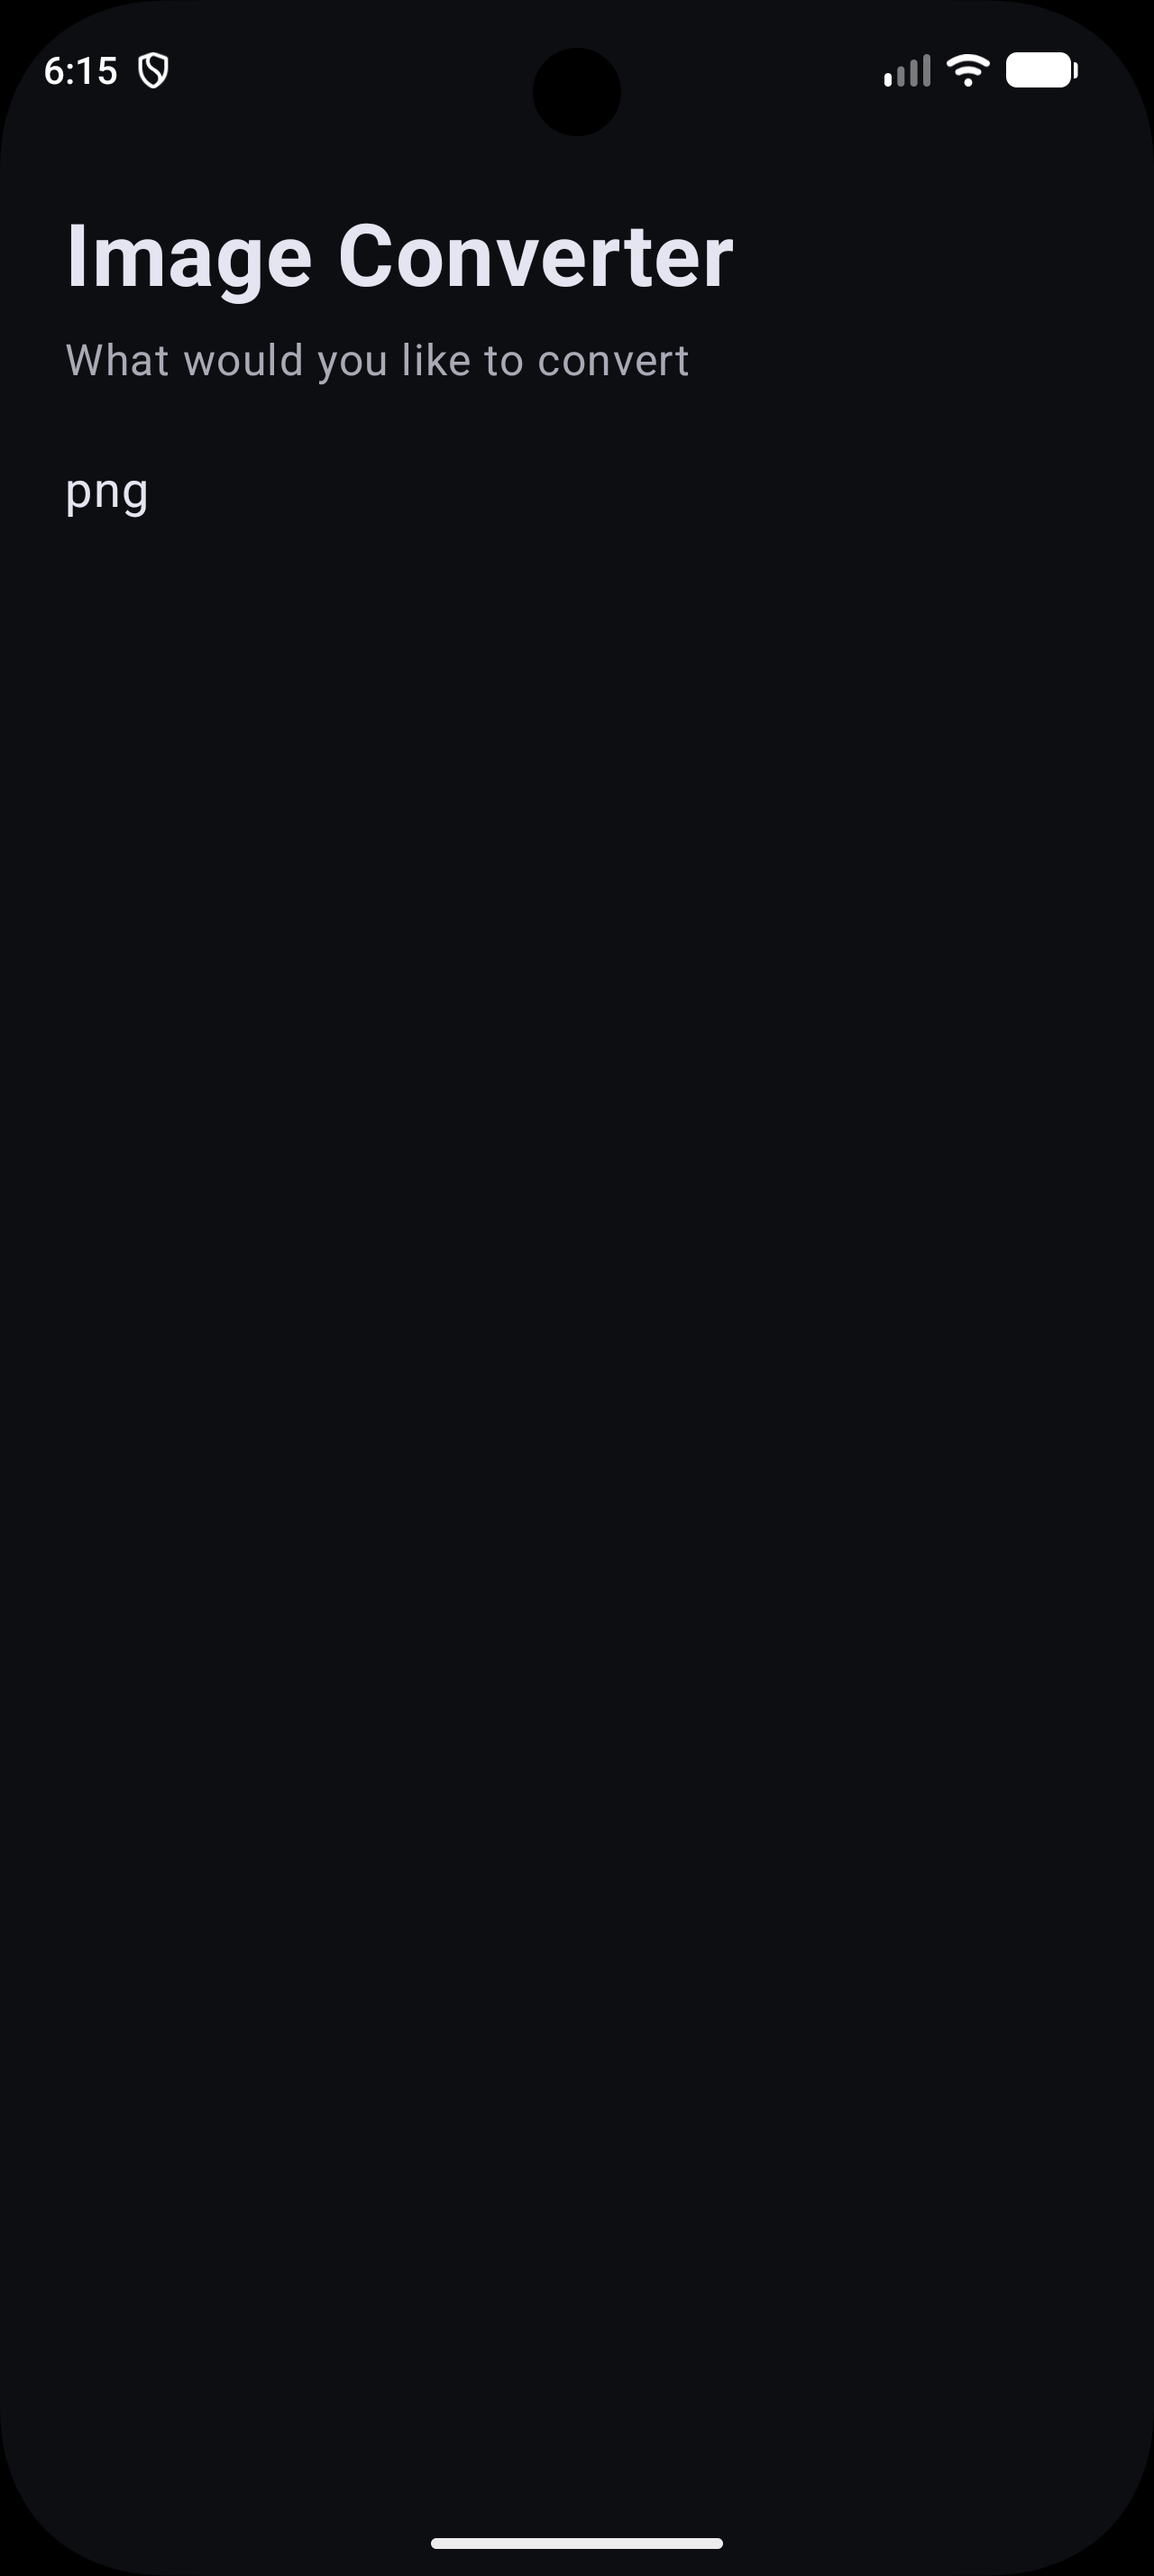
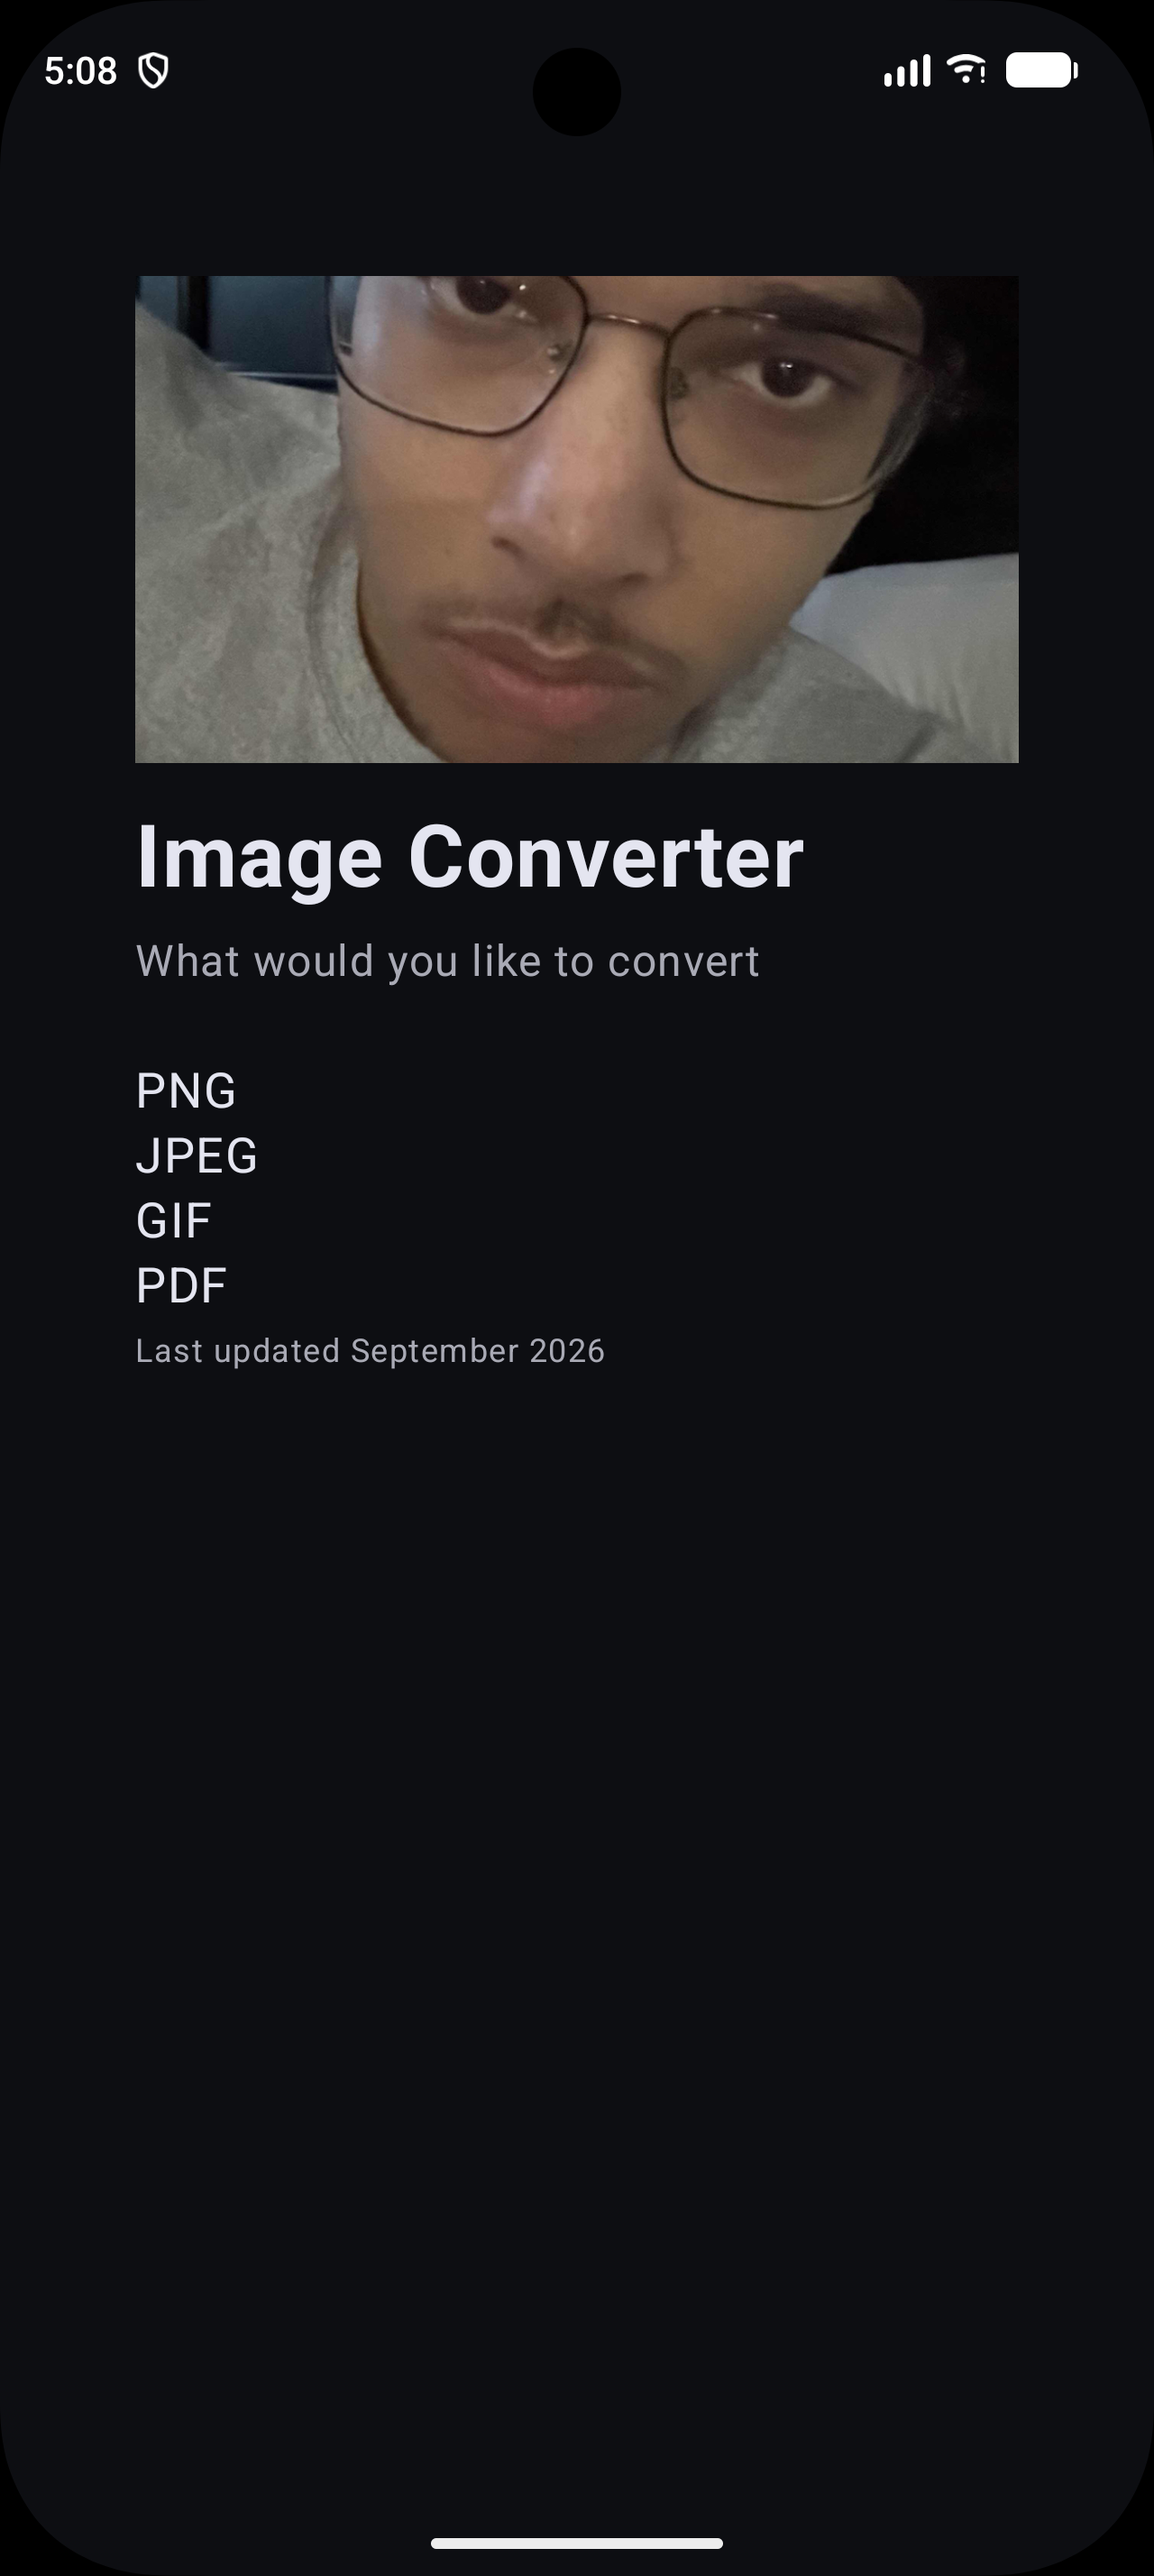
Lab 6 done

diff --git a/app/src/main/java/edu/lemoyne/campusapp/MainActivity.kt b/app/src/main/java/edu/lemoyne/campusapp/MainActivity.kt
@@ -1,9 +1,11 @@
 package edu.lemoyne.campusapp
 
+import android.content.res.Configuration
 import android.os.Bundle
 import androidx.activity.ComponentActivity
 import androidx.activity.compose.setContent
 import androidx.activity.enableEdgeToEdge
+import androidx.compose.foundation.Image
 import androidx.compose.foundation.layout.Column
 import androidx.compose.foundation.layout.Spacer
 import androidx.compose.foundation.layout.fillMaxSize
@@ -12,9 +14,12 @@ import androidx.compose.foundation.layout.height
 import androidx.compose.foundation.layout.padding
 import androidx.compose.material3.MaterialTheme
 import androidx.compose.material3.Scaffold
+import androidx.compose.material3.Surface
 import androidx.compose.material3.Text
 import androidx.compose.runtime.Composable
 import androidx.compose.ui.Modifier
+import androidx.compose.ui.layout.ContentScale
+import androidx.compose.ui.res.painterResource
 import androidx.compose.ui.text.font.FontWeight
 import androidx.compose.ui.tooling.preview.Preview
 import androidx.compose.ui.unit.dp
@@ -59,9 +64,16 @@ fun HomeScreen(modifier: Modifier = Modifier){
     Column(
         modifier = modifier
             .fillMaxWidth()
-            .padding(all =24.dp)
+            .padding(all =50.dp)
 
     ) {
+        // --- Lab 6 · Task 3: a picture of my own ---
+        Image(
+            painter = painterResource(id = R.drawable.header), contentDescription = "Profile Picture", contentScale = ContentScale.Crop,
+            modifier = Modifier
+                .fillMaxWidth() .height(180.dp)
+        )
+        Spacer(modifier = Modifier.height(16.dp))
         // --- Class 6: Step 4: real, styling ---
         Text(
             text = "Image Converter",
@@ -79,9 +91,28 @@ fun HomeScreen(modifier: Modifier = Modifier){
         Spacer(modifier = Modifier.height(24.dp))
 
        Text(
-           text = "png",
+           text = "PNG",
            fontSize = 18.sp
        )
+        // --- Lab 6 · Task 1: Added 3 more lines ---
+        Text(
+            text = "JPEG",
+            fontSize = 18.sp
+        )
+        Text(
+            text = "GIF",
+            fontSize = 18.sp
+        )
+        Text(
+            text = "PDF",
+            fontSize = 18.sp
+        )
+// --- Lab 6 · Task 2: footer --- Spacer(modifier = Modifier.height(24.dp))
+        Text(
+            text = "Last updated September 2026",
+            fontSize = 12.sp,
+            color = MaterialTheme.colorScheme.onSurfaceVariant
+        )
 
 
     }
@@ -92,4 +123,15 @@ fun HomeScreenPreview() {
     CampusAppTheme {
         HomeScreen()
     }
+}
+// --- Lab 6 · Task 4: dark mode preview ---
+
+@Preview(showBackground = true, uiMode = Configuration.UI_MODE_NIGHT_YES)
+@Composable
+fun HomeScreenDarkPreview() {
+    CampusAppTheme {
+        Surface {
+            HomeScreen() }
+        }
+
 }

diff --git a/NOTES.md b/NOTES.md
@@ -3,3 +3,5 @@
 2. When toggling dark mode the background of the settings app, google, my own app, as well as screen hud bars changed to darker colors.
 
 3. One thing that I don't understand is why the files are organized the way that they currently are and how they correspond with one another.
+---
+1. The padding number was changed from 24 to 50. This alteration cause the text and picture to shift a little more towards the right of the screen.
